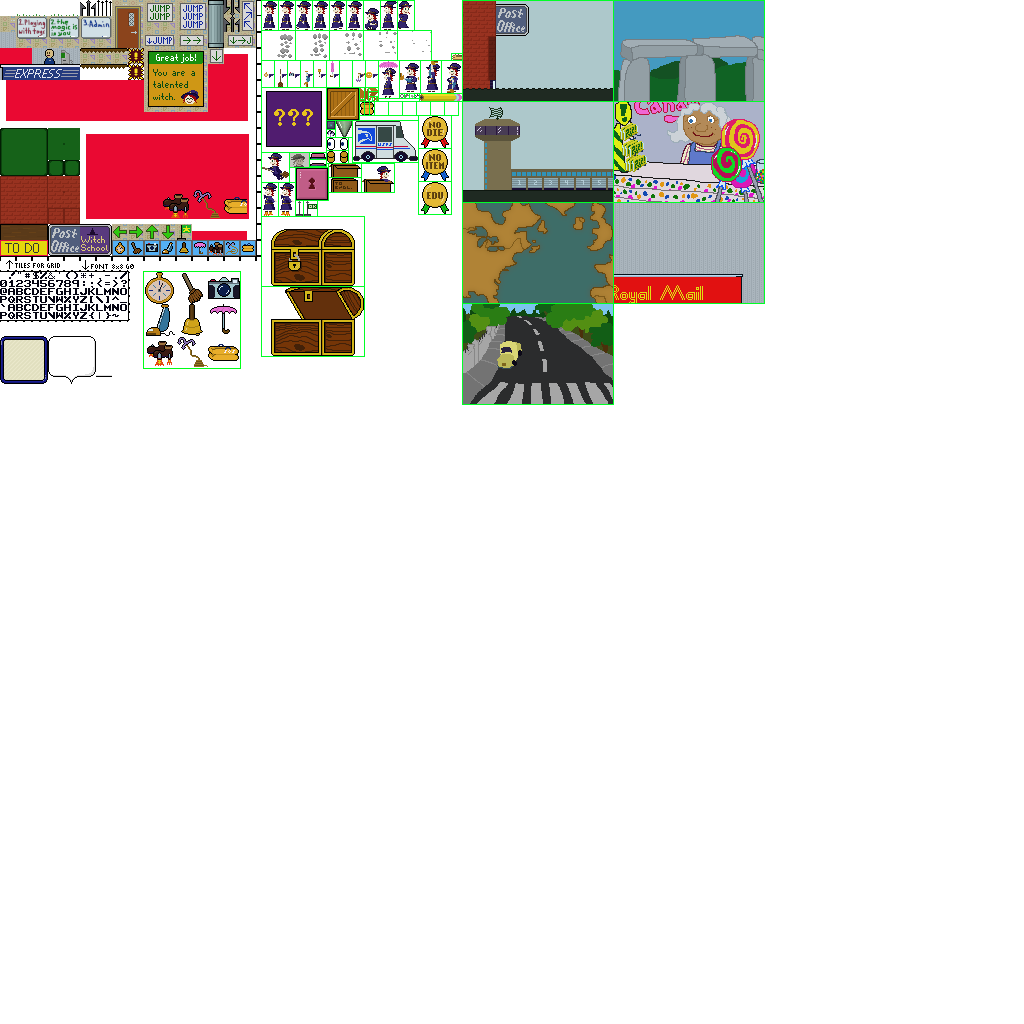
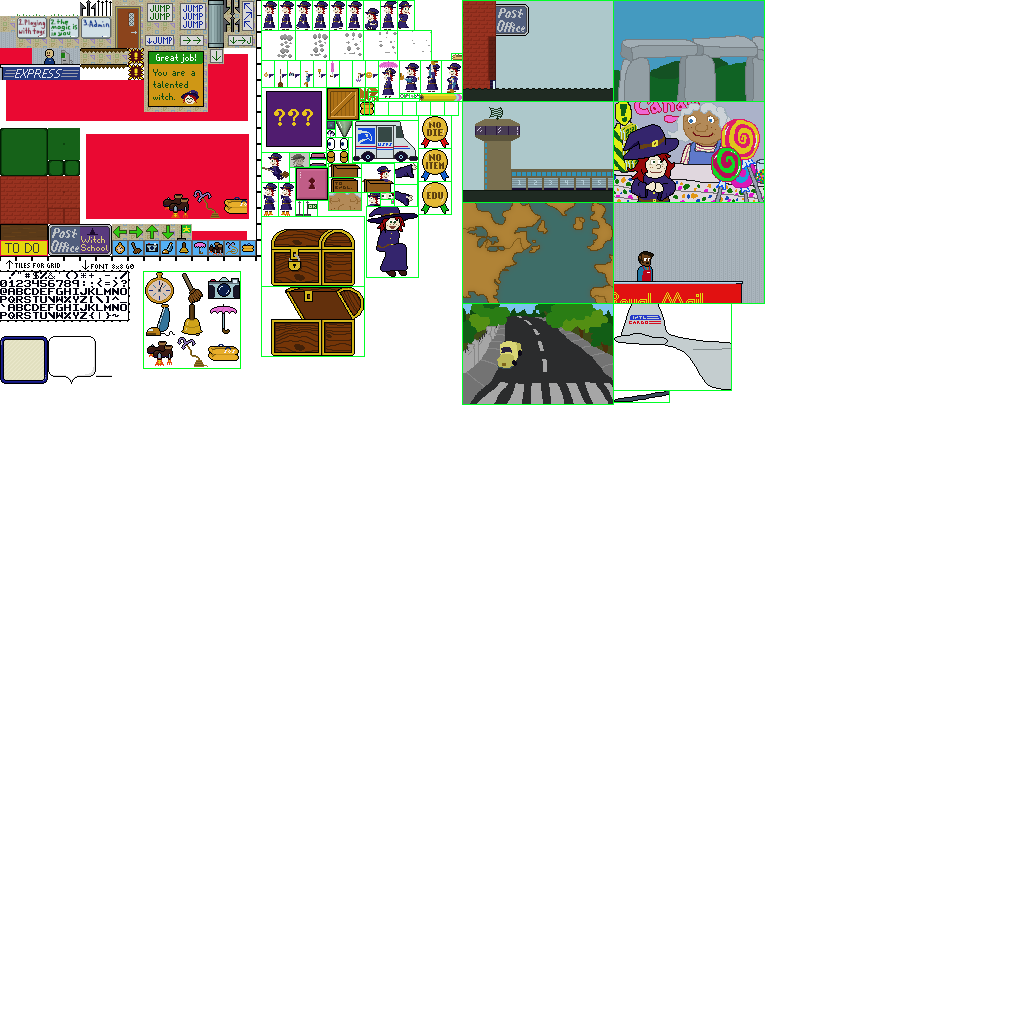
victory menu, final except some scoring details

diff --git a/src/www/js/game/menu/VictoryMenu.js b/src/www/js/game/menu/VictoryMenu.js
@@ -93,7 +93,7 @@ export class VictoryMenu {
     }
     
     const scoresHeight = this.scores.length * GLYPH_H;
-    const scoresTop = 104;
+    const scoresTop = 102;
     for (let y=scoresTop, i=0; i<this.scores.length; i++, y+=GLYPH_H) {
       const row = this.scores[i];
       let x = row.x;
@@ -115,6 +115,15 @@ export class VictoryMenu {
    ******************************************************************************/
    
   drawCinema(context) {
+    context.save();
+    context.beginPath();
+    context.rect(0, 0, 150, 100);
+    context.clip();
+    this.drawCinemaClipped(context);
+    context.restore();
+  }
+   
+  drawCinemaClipped(context) {
     let clock = this.clock;
     { const len = 12; // Post Office.
       if (clock < len) return this.drawPostOffice(context, clock / len);
@@ -146,37 +155,145 @@ export class VictoryMenu {
   
   drawPostOffice(context, t) {
     context.drawDecal(0, 0, 463, 1, 150, 100);
-    //TODO
+    
+    // box travels in an arc from loading dock to truck.
+    const boxstarttime = 0.400, boxendtime = 0.650;
+    if ((t >= boxstarttime) && (t < boxendtime)) {
+      const startx = 30, endx = 60;
+      const bottomy = 60, topy = 30;
+      const xtravel = (t - boxstarttime) / (boxendtime - boxstarttime);
+      const x = Math.round(startx + xtravel * (endx - startx));
+      const midtime = (boxstarttime + boxendtime) * 0.5;
+      const ytravel = Math.sqrt(((t < midtime) ? (t - boxstarttime) : (boxendtime - t)) / (boxendtime - boxstarttime));
+      const y = Math.round(bottomy + ytravel * (topy - bottomy));
+      context.drawDecal(x, y, 329, 178, 32, 14);
+      
+      // plus hands on each side
+      context.drawDecal(26, 62, 452, 54, 10, 6, true);
+      context.drawDecal(82, 62, 452, 54, 10, 6, false);
+    }
+    
+    // mail truck
+    let truckx = 90;
+    if (t >= 0.75) {
+      truckx += Math.floor((t - 0.75) * 300);
+    }
+    context.drawDecal(truckx, 50, 353, 121, 65, 41);
   }
   
   drawAirport(context, t) {
     context.drawDecal(0, 0, 463, 102, 150, 100);
-    //TODO
+    // plane: dst=33,0 src=614,304 size=117,86
+    // ramp: dst=74,79 src=614,391 size=55,11
+    // truck: dst=*,49 src=353,121 size=65,41
+    
+    // Ramp and truck are visible for the first half or so.
+    if (t < 0.600) {
+      context.drawDecal(74, 79, 614, 391, 55, 11);
+      const truckxa = -70, truckxz = 120;
+      const truckx = truckxa + Math.round((t / 0.600) * (truckxz - truckxa));
+      let trucky = 49;
+      if (truckx >= 40) { // up the ramp
+        trucky -= Math.floor((truckx - 40) / 20);
+      }
+      context.drawDecal(truckx, trucky, 353, 121, 65, 41);
+    }
+    
+    // Plane sits still until the truck enters, then taxis off rightward.
+    let planex = 33;
+    if (t >= 0.600) planex += Math.floor((t - 0.600) * 300);
+    context.drawDecal(planex, 0, 614, 304, 117, 86);
   }
   
   drawWorldMap(context, t) {
     context.drawDecal(0, 0, 463, 203, 150, 100);
-    //TODO
+    const wichitax = 14, wichitay = 67;
+    const londonx = 142, londony = 32;
+    const dotCountMax = 20;
+    const dotCount = Math.ceil(t * dotCountMax);
+    const dotRadius = 2;
+    const dx = (londonx - wichitax) / dotCountMax;
+    const dy = (londony - wichitay) / dotCountMax;
+    context.fillStyle = "#fff";
+    context.strokeStyle = "#000";
+    for (let i=dotCount, x=wichitax, y=wichitay; i-->0; x+=dx, y+=dy) {
+      // If I do these all in one path, they go screwy. I dunno... just do a separate path for each.
+      context.beginPath();
+      context.ellipse(Math.round(x), Math.round(y), dotRadius, dotRadius, 0, 0, 3 * Math.PI);
+      context.fill();
+    }
   }
   
   drawAbbeyRoad(context, t) {
     context.drawDecal(0, 0, 463, 304, 150, 100);
-    //TODO
+    const dotxa = 20, dotxz = 130, doty = 61;
+    const dotx = dotxa + Math.floor(t * (dotxz - dotxa));
+    let srcx = 296 + (Math.floor(t * 20) & 3) * 17;
+    context.drawDecal(dotx, doty, srcx, 1, 16, 29, true);
   }
   
   drawStonehenge(context, t) {
     context.drawDecal(0, 0, 614, 1, 150, 100);
-    //TODO
+    // dot: dst=26,0 src=367,207 size=51,70
+    // arm: (l)dst=18,16 (r)dst=56,17 src=395,163(185) size=22,21. 2 frames, same size and anchor. flop for left.
+    const armsrcy = (~(t * 20) & 1) ? 163 : 185;
+    context.drawDecal(18, 16, 395, armsrcy, 22, 21, true);
+    context.drawDecal(56, 17, 395, armsrcy, 22, 21, false);
+    context.drawDecal(26, 0, 367, 207, 51, 70);
   }
   
   drawCandyShoppe(context, t) {
     context.drawDecal(0, 0, 614, 102, 150, 100);
-    //TODO
+    // old lady blink: dst=72,10 src=329,193 size=32,17
+    // dot eyes: dst=36,57 src=381,193 size=13,6
+    // dot tongue: dst=38..44,67 src=392,200 size=2,3
+    
+    if (~~(t * 20) % 10 > 8) { // old lady blinks periodically
+      context.drawDecal(72, 10, 329, 193, 32, 17);
+    }
+    
+    if ((~~(t * 10)) & 1) { // dot's eyes dart back and forth
+      context.drawDecal(36, 57, 381, 193, 13, 6);
+    }
+    
+    // dot's tongue appears and traverses her upper lip twice, in different directions
+    if (t < 0.25) {
+    } else if (t < 0.35) {
+      const t0 = (t - 0.25) * 10;
+      const dstx = Math.round(38 * t0 + 44 * (1 - t0));
+      context.drawDecal(dstx, 67, 392, 200, 2, 3);
+    } else if (t < 0.75) {
+    } else if (t < 0.85) {
+      const t0 = (t - 0.75) * 10;
+      const dstx = Math.round(38 * (1 - t0) + 44 * t0);
+      context.drawDecal(dstx, 67, 392, 200, 2, 3);
+    }
   }
   
-  drawUkPostOffice(context, t) {
+  drawUkPostOffice(context, t) { // (t) can exceed 1
     context.drawDecal(0, 0, 614, 203, 150, 100);
-    //TODO
+    
+    // empty box on the counter and dot walks in from the right
+    if (t < 0.200) {
+      context.drawDecal(68, 65, 329, 164, 32, 13, true);
+      const dotx = 150 + Math.round(t * 5 * (75 - 150));
+      const dotsrcx = 296 + ((t * 30) & 3) * 17;
+      context.drawDecal(dotx, 71, dotsrcx, 1, 16, 29);
+      return;
+    }
+    
+    // dot in a box
+    context.drawDecal(68, 50, 362, 164, 32, 28, true);
+    
+    // dialogue
+    if (t < 0.300) {
+    } else if (t < 0.700) {
+      context.drawDialogue(76, 49, "OK mail me back to Kansas");
+    } else if (t < 0.980) {
+    } else {
+      context.drawDialogue(34, 46, "Too heavy");
+      context.drawDecal(72, 54, 368, 193, 12, 13);
+    }
   }
   
   /* Prepare the scores report.
@@ -242,7 +359,7 @@ export class VictoryMenu {
   }
   
   generateMedals() {
-    const dsty = 128;
+    const dsty = 127;
     if (!this.game.deathCount) {
       this.medals.push({ dstx: 0, dsty, srcx: 419, srcy: 116 });
     }

diff --git a/README.md b/README.md
@@ -27,10 +27,15 @@ https://github.com/aksommerville/too-heavy
 - - - [ ] Forbid using items.
 - - - [ ] Keep score.
 - - [ ] Tutorial 3: Admin
-- - [ ] Victory cutscene.
+- - [x] Victory cutscene.
 - - [ ] Can vacuum onto hazards safely -- should kill you.
 - - [ ] Cannonball isn't happening if you enter from the top with it already started. (visually right, but only getting the "land" sound). eg end of jump lessons.
+- - [ ] Persist high score.
 - By 7 January -- game jam submission
+- - [ ] Change the "V" in the font, I don't like the slanted look.
+- - [ ] Pretty up sound effects, after some review.
+- - - [ ] Pause/resume, yuck
+- - - [ ] Down-jump and dash sound too much alike.
 - - [ ] Fireworks on special jumps.
 - - [ ] WordBubbler: Exact stem alignment
 - - [ ] WordBubbler: Rewrite text breaking, it's making poor choices
